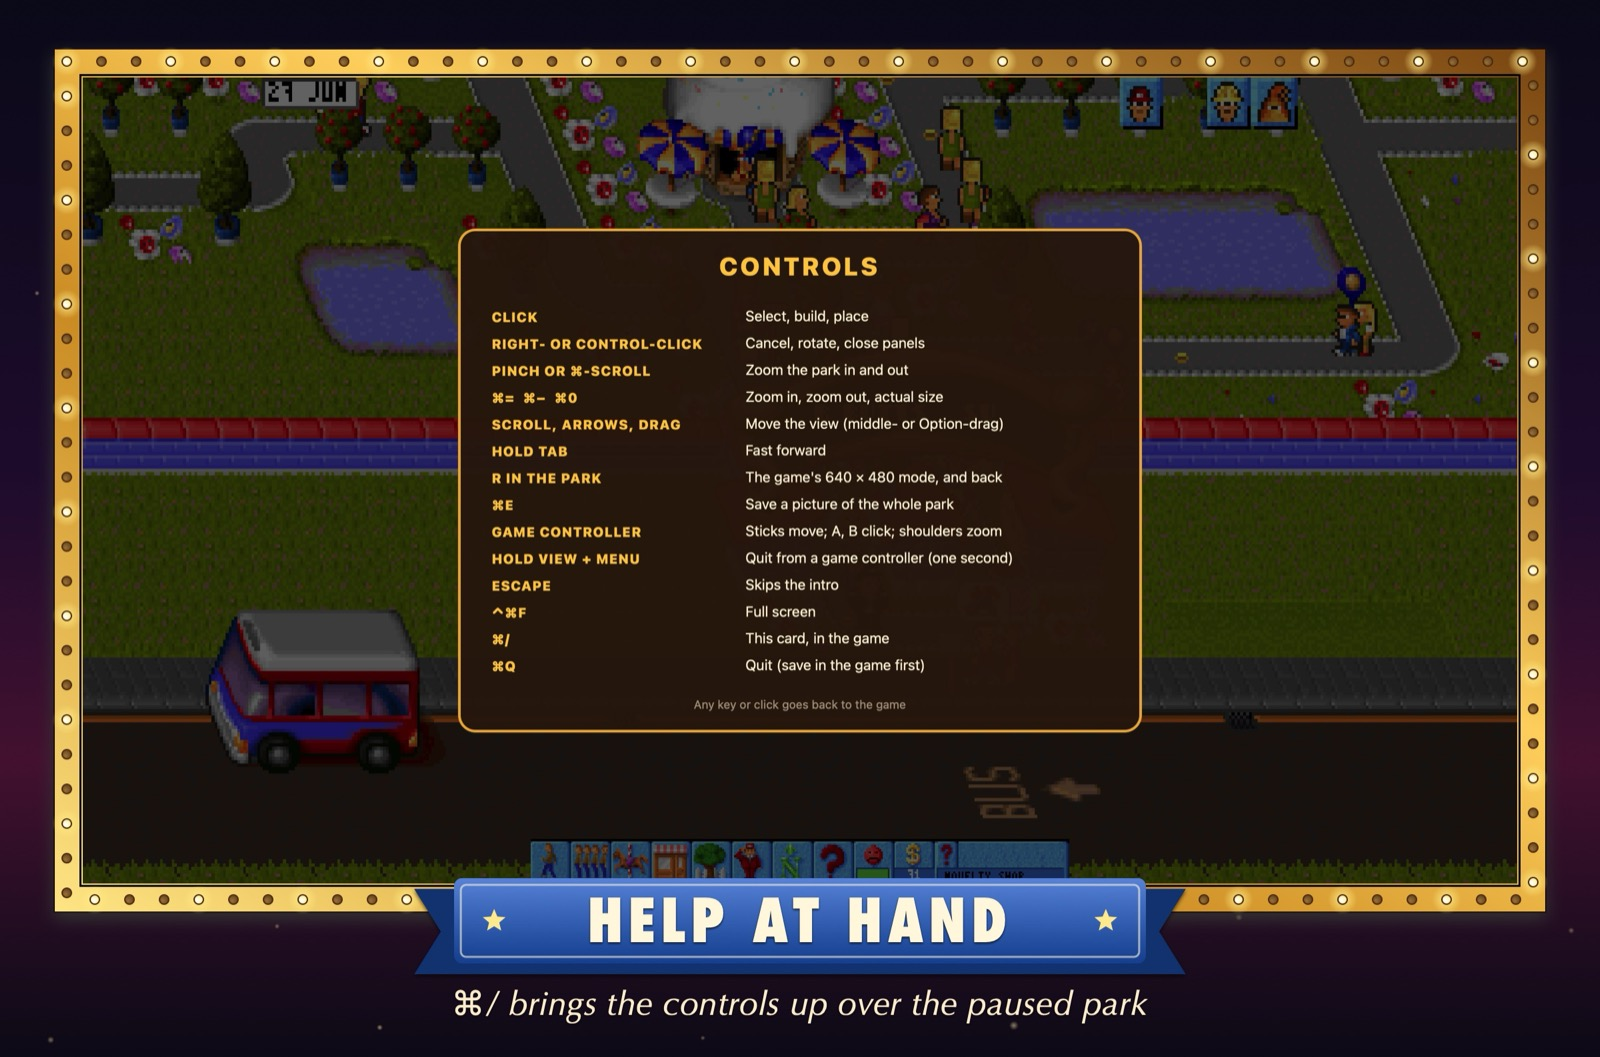
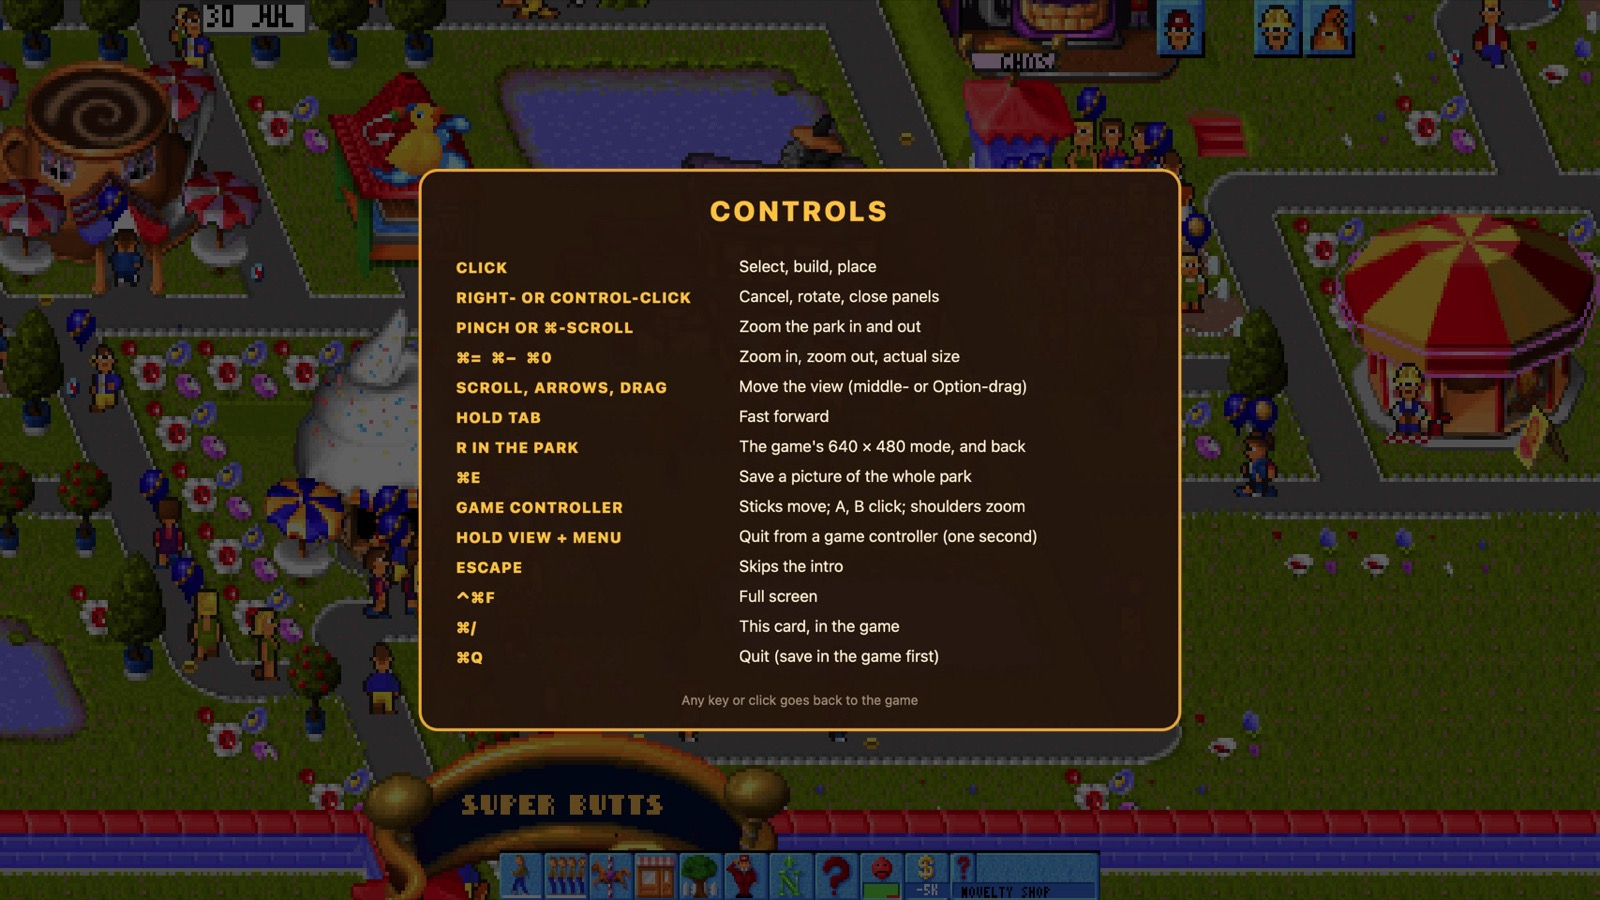
README: the screenshots as they are, no ribbons or captions (Claude Code)

diff --git a/platform/setup/dev/make_readme_art.m b/platform/setup/dev/make_readme_art.m
@@ -1,6 +1,7 @@
 // make_readme_art: the README's art in the launch window's look (platform/macos/launcher.m, "Midway Marquee"): ours only,
 // drawn here, no publisher art. The screenshots it frames are the player's own park in the game, taken by tests/e2e.
 //   make_readme_art banner <out.png>                                   the page's logo: OPENPARK on a lit marquee sign
+//   make_readme_art plain <shot> <out.jpg> [--over <png>]   the screenshot as it is (the README's, since 2026-11-26)
 //   make_readme_art card <shot> <title> <caption> <colour> <out.jpg>   a screenshot in a gilt frame of bulbs, a ribbon
 //                       [--over <png>]                                 (another picture laid over the shot: the controls card)
 //   colour: red, blue, gold, green, purple (the launcher's tickets)
@@ -200,12 +201,25 @@ static int card(NSString *shot, NSString *title, NSString *caption, NSString *co
     });
 }
 
+/* ---- a screenshot as it is (the README's shots since 2026-11-26: no frame, ribbon or caption), the card over it ---- */
+static int plain(NSString *shot, NSString *over, NSString *out) {
+    NSImage *img = [[NSImage alloc] initWithContentsOfFile:shot]; if (!img) { fprintf(stderr, "no image %s\n", shot.UTF8String); return 1; }
+    NSImage *top = over ? [[NSImage alloc] initWithContentsOfFile:over] : nil;
+    NSBitmapImageRep *rep = (NSBitmapImageRep *)img.representations.firstObject;
+    return render(rep.pixelsWide / 2.0, rep.pixelsHigh / 2.0, out, ^(NSRect r) {   /* (render draws at 2 pixels a point: the shot keeps its own size) */
+        [img drawInRect:r fromRect:NSZeroRect operation:NSCompositingOperationCopy fraction:1 respectFlipped:YES hints:@{NSImageHintInterpolation: @(NSImageInterpolationHigh)}];
+        if (top) [top drawInRect:r fromRect:NSZeroRect operation:NSCompositingOperationSourceOver fraction:1 respectFlipped:YES hints:@{NSImageHintInterpolation: @(NSImageInterpolationHigh)}];
+    });
+}
+
 int main(int argc, char **argv) {
     @autoreleasepool {
         if (argc == 3 && !strcmp(argv[1], "banner")) return banner(@(argv[2]));
         if ((argc == 7 || argc == 9) && !strcmp(argv[1], "card"))
             return card(@(argv[2]), @(argv[3]), @(argv[4]), @(argv[5]), argc == 9 && !strcmp(argv[7], "--over") ? @(argv[8]) : nil, @(argv[6]));
-        fprintf(stderr, "usage: make_readme_art banner <out.png> | card <shot> <title> <caption> <colour> <out.jpg> [--over <png>]\n");
+        if ((argc == 4 || argc == 6) && !strcmp(argv[1], "plain"))
+            return plain(@(argv[2]), argc == 6 && !strcmp(argv[4], "--over") ? @(argv[5]) : nil, @(argv[3]));
+        fprintf(stderr, "usage: make_readme_art banner <out.png> | plain <shot> <out.jpg> [--over <png>] | card <shot> <title> <caption> <colour> <out.jpg> [--over <png>]\n");
         return 2;
     }
 }

diff --git a/platform/setup/dev/readme_shots.py b/platform/setup/dev/readme_shots.py
@@ -7,7 +7,8 @@ harness's own copy of the app (tests/e2e: muted, scratch data, its own bundle id
                 "walk": 1 the Visitor View (walkshot). Control lines: tests/e2e/ctl.py, main.m's runControl (size, zoom,
                 pan, key, controls, walk -1 0, sleep).
 The 2026-11-25 set: JOSH:g0 with size 1600 900; zoom 0.6 (opening-day), 1.8 (burger-oclock), 1.2 + pan 500 -150
-(haunted-row), R (whole-park, 640 x 480), zoom 0.85 + pan -150 60 + the card (help-at-hand). Framed by make_readme_art."""
+(haunted-row), R (whole-park, 640 x 480), zoom 0.85 + pan -150 60 + the card (help-at-hand). Since 2026-11-26 the
+README shows them as they are (make_readme_art plain, the card composited with --over; no frame, ribbon or caption)."""
 import sys, os, shutil, time, re, json
 sys.path.insert(0, sys.argv[1] + '/tests/e2e'); slot = sys.argv[2]; plan = json.loads(sys.argv[3]); outdir = sys.argv[4]; sys.argv = sys.argv[:1]
 from e2e import *

diff --git a/README.md b/README.md
@@ -13,11 +13,11 @@ compiled for the machine, with a native host: no DOSBox, Wine, Rosetta or CPU em
 Silicon is playable today; Windows and Linux are well under way ([Platforms](#platforms)). You build it from your own
 copy of the game; this repository contains no game code, data or art.
 
-![Opening day: the bus pulls in and the gates swing open, in a widescreen window](docs/screenshots/opening-day.jpg)
+![A park in a widescreen window, the bus at the gates](docs/screenshots/opening-day.jpg)
 
 | | |
 |---|---|
-| ![Burger o'clock: zoomed in close on the visitors](docs/screenshots/burger-oclock.jpg) | ![Haunted House Row: panning the park at any zoom](docs/screenshots/haunted-row.jpg) |
+| ![Zoomed in close on the visitors](docs/screenshots/burger-oclock.jpg) | ![Panning the park at any zoom](docs/screenshots/haunted-row.jpg) |
 | ![The whole park in the game's own 640 x 480 mode](docs/screenshots/whole-park.jpg) | ![The controls card over the paused park](docs/screenshots/help-at-hand.jpg) |
 | ![Visitor View: walking the park at a visitor's height](docs/screenshots/visitor-view.jpg) | ![The original ride films](docs/screenshots/ride-films.jpg) |
 
